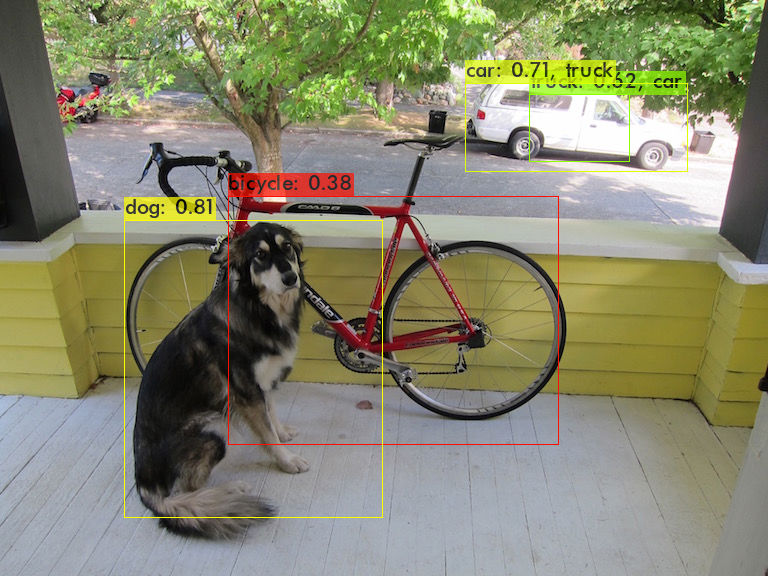
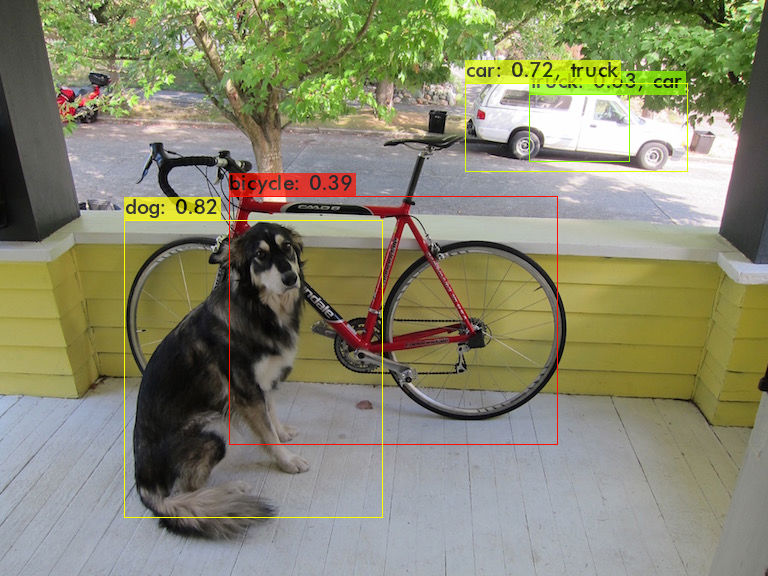
fixed point gemm sorta working

diff --git a/src/gemm.c b/src/gemm.c
@@ -7,6 +7,7 @@
 #include <math.h>
 #include <float.h>
 #include <string.h>
+#include <stddef.h>
 #include <stdint.h>
 #if defined(_OPENMP)
 #include <omp.h>
@@ -2649,44 +2650,61 @@ void get_stats(float *A, int size)
 	printf("Min: %g, Max: %g, Mean: %g\n", min, max, mean);
 }
 
-int roundup(float fp_number)
+/* make it a little easier to play with different int sizes and scales */
+typedef int64_t fx_t;
+#define FXFP_SCALE 16
+
+static inline fx_t fx_mul(fx_t a, fx_t b)
 {
-	int	fx_number	=	(int)fp_number;
-
-	if(fp_number-fx_number>=0.5)	fx_number++;
-
-	return	fx_number;
+    return ((a*b)>>FXFP_SCALE);
 }
 
-static inline int fp2fx(float fp)
+static inline fx_t roundup(float fp_number)
 {
-	int scale = 8;
-	return roundup(fp * (1 << scale));
+    fx_t fx_number = (fx_t) fp_number;
+    if(fp_number-fx_number>=0.5) ++fx_number;
+    return fx_number;
 }
 
-static inline float fx2fp(int fx)
+static inline fx_t fp2fx(float fp)
 {
-	int scale = 8;
-	return (float)(fx) / (1 << scale);
+    return roundup(fp*((fx_t)1 << FXFP_SCALE));
 }
 
-void gemm_nn_fx(int M, int N, int K, float ALPHA,
-    float *A, int lda,
-    float *B, int ldb,
-    float *C, int ldc)
+static inline float fx2fp(fx_t fx)
 {
-	int alpha = fp2fx(ALPHA);
-	
-	//printf("\nFP alpha: %g, FX alpha: %d\n\n", ALPHA, alpha);
+    return (float) (fx)/((fx_t)1 << FXFP_SCALE);
+}
 
-	//float fp = 0.213;
-	//printf("======FP Res: %g, FX Res: %g======\n", fp * 500, fx2fp(fp2fx(fp) * 500));
+fx_t * fp2fxarr(float* arr, size_t n)
+{
+    fx_t * fx = (fx_t *) xcalloc(n, sizeof(fx_t));
+    size_t i;
+    for (i = 0; i < n; ++i) {
+        fx[i] = fp2fx(arr[i]);
+    }
+    return fx;
+}
+
+void fx2fparr(float* ret, fx_t* arr, size_t n)
+{
+    size_t i;
+    for (i = 0; i < n; ++i) {
+        ret[i] = fx2fp(arr[i]);
+    }
+}
+
+void gemm_nn_fx(int M, int N, int K, fx_t ALPHA,
+    fx_t *A, int lda,
+    fx_t *B, int ldb,
+    fx_t *C, int ldc)
+{
     int i, j, k;
     for (i = 0; i < M; ++i) {
         for (k = 0; k < K; ++k) {
-            PUT_IN_REGISTER int A_PART = alpha * fp2fx(A[i * lda + k]);
+            PUT_IN_REGISTER fx_t A_PART = fx_mul(ALPHA, A[i * lda + k]);
             for (j = 0; j < N; ++j) {
-                C[i*ldc + j] += fx2fp(A_PART * fp2fx(B[k*ldb + j]));
+                C[i*ldc + j] += fx_mul(A_PART, B[k*ldb + j]);
             }
         }
     }
@@ -2699,49 +2717,56 @@ void gemm_cpu(int TA, int TB, int M, int N, int K, float ALPHA,
         float BETA,
         float *C, int ldc)
 {
-    // TODO convert A, B, C, ALPHA to fixed point
-	
+    /*
+    printf("\n\nPRE GEMM:\n");
+    printf("[A]");
+    get_stats(A, M * K);
+    printf("[B]");
+    get_stats(B, K * N);
+    printf("[C]");
+    get_stats(C, M * N);
+    */
 
-    //printf("cpu: %d %d %d %d %d %f %d %d %f %d\n",TA, TB, M, N, K, ALPHA, lda, ldb, BETA, ldc);
-    if (BETA != 1){
+    fx_t alpha = fp2fx(ALPHA);
+    fx_t beta = fp2fx(BETA);
+    fx_t * a = fp2fxarr(A, M*K);
+    fx_t * b = fp2fxarr(B, K*N);
+    fx_t * c = fp2fxarr(C, M*N);
+
+    // printf("fx_mul test: %g * %g = %g\n", 3.1415, 1.2345, fx2fp(fx_mul(fp2fx(3.1415), fp2fx(1.2345))));
+
+    // printf("cpu: %d %d %d %d %d %f %d %d %f %d\n",TA, TB, M, N, K, ALPHA, lda, ldb, BETA, ldc);
+    // printf("cpu: %d %d %d %d %d %f %d %d %f %d\n",TA, TB, M, N, K, fx2fp(fp2fx(ALPHA)), lda, ldb, fx2fp(fp2fx(BETA)), ldc);
+
+    if (beta != fp2fx(1.0)){
         int i, j;
         for(i = 0; i < M; ++i){
             for(j = 0; j < N; ++j){
-                C[i*ldc + j] *= BETA;
+                c[i*ldc + j] = fx_mul(c[i*ldc + j], beta);
             }
         }
     }
 
-    //is_avx();   // initialize static variable
-    //if (is_fma_avx2() && !TA && !TB) {
-    //    gemm_nn_fast(M, N, K, ALPHA, A, lda, B, ldb, C, ldc);
-    //}
-    //else {
-	int t;
-	//#pragma omp parallel for
-	for (t = 0; t < M; ++t) {
-		// TODO call modified gemm_nn_fixed_pt
+    int t;
+    // #pragma omp parallel for
+    for (t = 0; t < M; ++t) {
+        // TODO call modified gemm_nn_fixed_pt
+        gemm_nn_fx(1, N, K, alpha, a + t*lda, lda, b, ldb, c + t*ldc, ldc);
+    }
+    
+    fx2fparr(A, a, M*K);
+    fx2fparr(B, b, K*N);
+    fx2fparr(C, c, M*N);
 
-
-		if (!TA && !TB)
-			gemm_nn(1, N, K, ALPHA, A + t*lda, lda, B, ldb, C + t*ldc, ldc);
-			//gemm_nn_fx(1, N, K, ALPHA, A + t*lda, lda, B, ldb, C + t*ldc, ldc);
-		else if (TA && !TB)
-			gemm_tn(1, N, K, ALPHA, A + t, lda, B, ldb, C + t*ldc, ldc);
-		else if (!TA && TB)
-			gemm_nt(1, N, K, ALPHA, A + t*lda, lda, B, ldb, C + t*ldc, ldc);
-		else
-			gemm_tt(1, N, K, ALPHA, A + t, lda, B, ldb, C + t*ldc, ldc);
-
-	}
-    //}
-
-	printf("[A]");
-	get_stats(A, M * K);
-	printf("[B]");
-	get_stats(B, K * N);
-	printf("[C]");
-	get_stats(C, M * N);
+    /*
+    printf("\n\nPOST GEMM:\n");
+    printf("[A]");
+    get_stats(A, M * K);
+    printf("[B]");
+    get_stats(B, K * N);
+    printf("[C]");
+    get_stats(C, M * N);
+    */
 }
 
 #ifdef GPU
